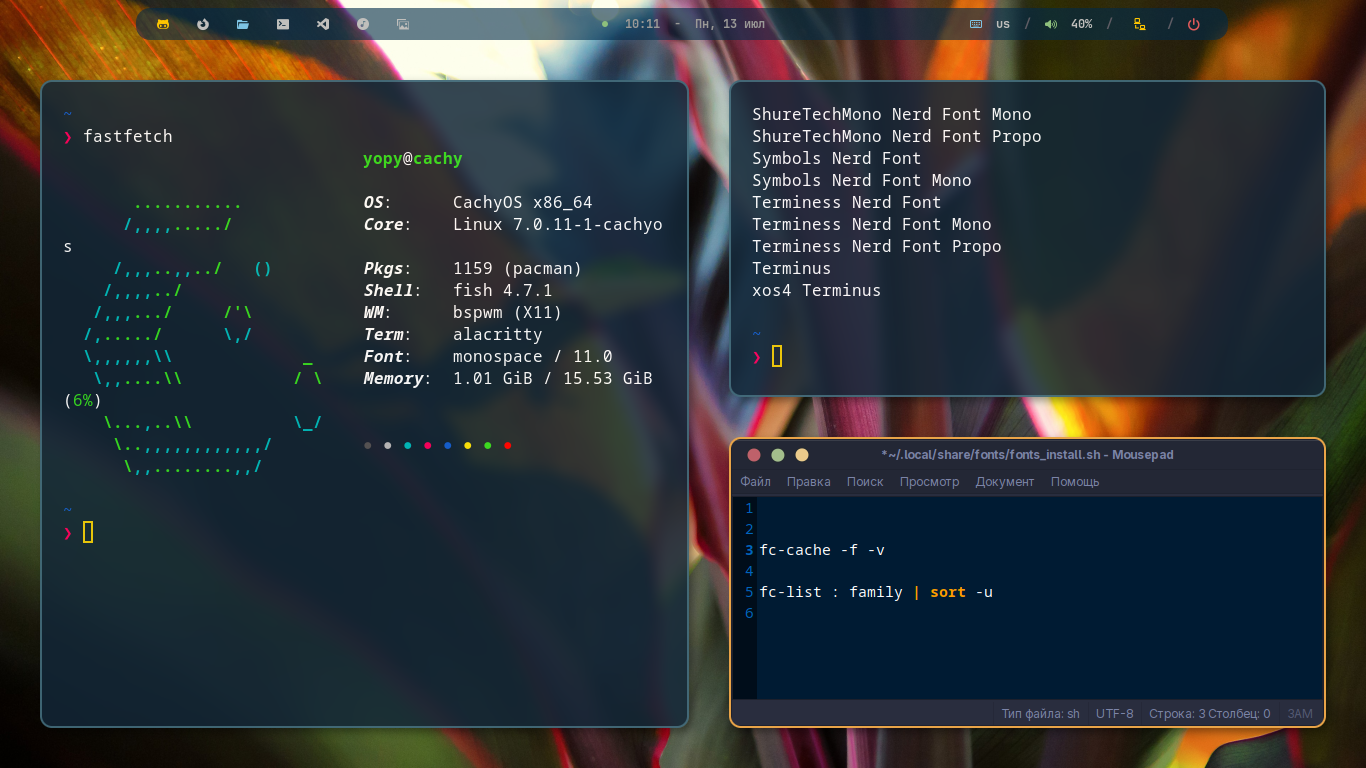
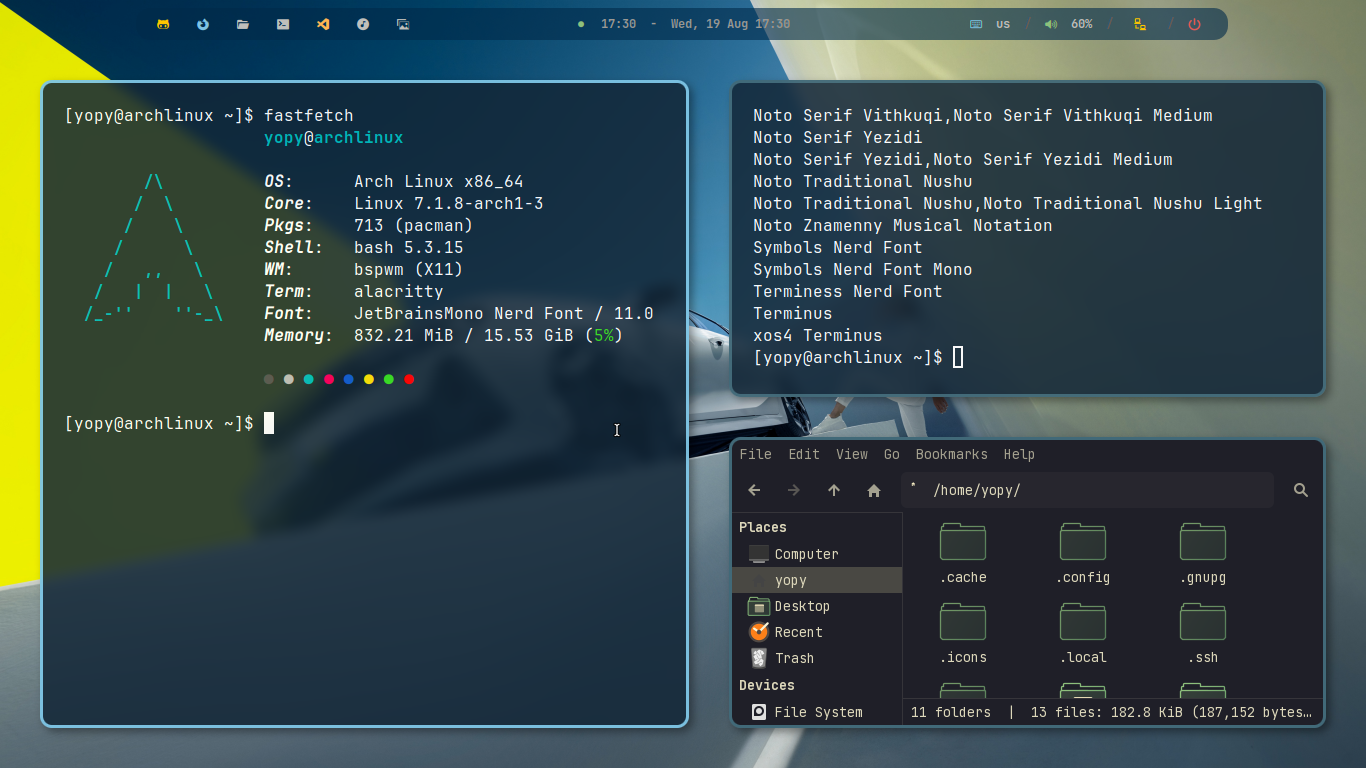
update

diff --git a/README.md b/README.md
@@ -3,21 +3,21 @@
 
 Bspwm 🐧 Dotfiles   
 
-<img alt="CachyOS" src="https://img.shields.io/badge/Cachy-273c75?logo=arch-linux&logoColor=fff&style=for-the-badge" height="40"/><img alt="Linux" src="https://img.shields.io/badge/Linux-FCC624?style=for-the-badge&logo=linux&logoColor=black" height="40"/>
+<img alt="Arch" src="https://img.shields.io/badge/Arch-0097e6?logo=arch-linux&logoColor=fff&style=for-the-badge" height="40"/><img alt="Linux" src="https://img.shields.io/badge/Linux-FCC624?style=for-the-badge&logo=linux&logoColor=black" height="40"/>
 
 ###
 
-<img src="screen/1.png" alt="Preview" width="50%" max-width="800px"><img src="screen/3.png" alt="Preview" width="50%" max-width="800px">
+<img src="screen/1.png" alt="Preview" width="50%" max-width="800px"><img src="screen/2.png" alt="Preview" width="50%" max-width="800px">
+<img src="screen/3.png" alt="Preview" width="50%" max-width="800px"><img src="screen/4.png" alt="Preview" width="50%" max-width="800px">
 
 </h1> 
 
-## Cobalt2 Theme
+## Cobalt Theme
 
-<img alt="Crux" src="https://img.shields.io/badge/Crux-dfe4ea?style=for-the-badge&logo=gnubash&logoColor=black" height="24"/><img alt="Gentoo" src="https://img.shields.io/badge/Gentoo-546de5?style=for-the-badge&logo=gentoo&logoColor=white" height="24"/><img alt="Debian" src="https://img.shields.io/badge/Debian-ff4757?style=for-the-badge&logo=debian&logoColor=white" height="24"/><img alt="Alpine" src="https://img.shields.io/badge/Alpine-60a3bc?logo=alpinelinux&logoColor=fff&style=for-the-badge" height="24"/><img alt="Arch" src="https://img.shields.io/badge/Arch-0fbcf9?logo=arch-linux&logoColor=fff&style=for-the-badge" height="24"/>
+<img alt="Linux" src="https://img.shields.io/badge/Linux-FCC624?style=for-the-badge&logo=linux&logoColor=black" height="24"/><img alt="Crux" src="https://img.shields.io/badge/Crux-dfe4ea?style=for-the-badge&logo=gnubash&logoColor=black" height="24"/><img alt="Debian" src="https://img.shields.io/badge/Debian-ED4C67?style=for-the-badge&logo=debian&logoColor=white" height="24"/><img alt="Alpine" src="https://img.shields.io/badge/Alpine-60a3bc?logo=alpinelinux&logoColor=fff&style=for-the-badge" height="24"/><img alt="Gentoo" src="https://img.shields.io/badge/Gentoo-546de5?style=for-the-badge&logo=gentoo&logoColor=white" height="24"/><img alt="Arch" src="https://img.shields.io/badge/Arch-0097e6?logo=arch-linux&logoColor=fff&style=for-the-badge" height="24"/>
 
-| <img width="200"/> | <img width="200"/> |
+| **Window Manager** <img width="60"/>  | `bspwm` <img width="140"/>  |
 | :--- | :--- |
-| **Window Manager** | `bspwm` |
 | **Hotkeys daemon** | `sxhkd` |
 | **Status bar** | `polybar` |
 | **Terminal** | `alacritty` |
@@ -25,7 +25,7 @@ Bspwm 🐧 Dotfiles
 | **Wallpaper** | `feh` |
 | **Compositor** | `picom` |
 | **Screenshot** | `maim` |
-| **Viewer** | `imv` | 
+| **Viewer** | `imv` |
 
 #### Fonts
 **Symbols Nerd Font** - icons, interface, development.   
@@ -36,14 +36,21 @@ Bspwm 🐧 Dotfiles
 
 ### Installation
 
-#### 1. Update system
+#### 1. Update system + system
 ```bash
-sudo pacman -Syu
+sudo pacman -Syu   
+
+sudo pacman -S \
+    xorg-server xorg-xinit \
+    xorg-xrandr xorg-xset xorg-xsetroot
 ```
 
 #### 2. Installing BSPWM and basic utilities
 ```bash
-sudo pacman -S bspwm sxhkd rofi picom polybar feh dunst maim slop xclip
+sudo pacman -S \
+    bspwm sxhkd \
+    polybar rofi bemenu picom feh \
+    maim slop xclip dunst i3lock
 ```
 
 Give execution rights to configuration scripts:
@@ -52,39 +59,20 @@ chmod +x ~/.config/bspwm/bspwmrc
 chmod +x ~/.config/polybar/launch.sh
 ```
 
-#### 3. Installing the AUR assistant (YAY)
+#### 3. Installing basic applications and dependencies
 ```bash
-sudo pacman -S git base-devel
-git clone https://aur.archlinux.org/yay-bin.git
-cd yay-bin
-makepkg -si
-```
-
-#### 4. Installing basic applications and dependencies
-```bash
-yay -S firefox alacritty mousepad micro \
-        thunar thunar-archive-plugin thunar-volman \
-        btop fastfetch mc engrampa \
-        p7zip unzip zip tar atool \
-        wget git curl gvfs udisks2 ntfs-3g \
-        xdg-utils glib2 ripgrep zoxide xfce4-screenshooter \
-        celluloid rhythmbox imagemagick ffmpeg palette imv \
-        lxappearance xorg-xsetroot 
-```
-
-#### 5. Additional software
-```bash
-yay -S google-chrome visual-studio-code-bin 
-```
-
-#### 6. Shell & Fish
-
-```bash
-sudo pacman -Sy fish eza fzf fd
-```
-Changing the standard shell to Fish
-```bash
-chsh -s $(command -v fish)
+sudo pacman -S \
+    firefox alacritty kitty \
+    micro mousepad \
+    thunar thunar-archive-plugin thunar-volman \
+    gvfs udisks2 ntfs-3g tumbler \
+    fastfetch mc engrampa btop \
+    p7zip unzip zip tar atool \
+    wget git curl \
+    xdg-utils ripgrep zoxide \
+    xfce4-screenshooter \
+    celluloid rhythmbox imagemagick ffmpeg imv \
+    lxappearance glib2 
 ```
 
 #### Home Structure
